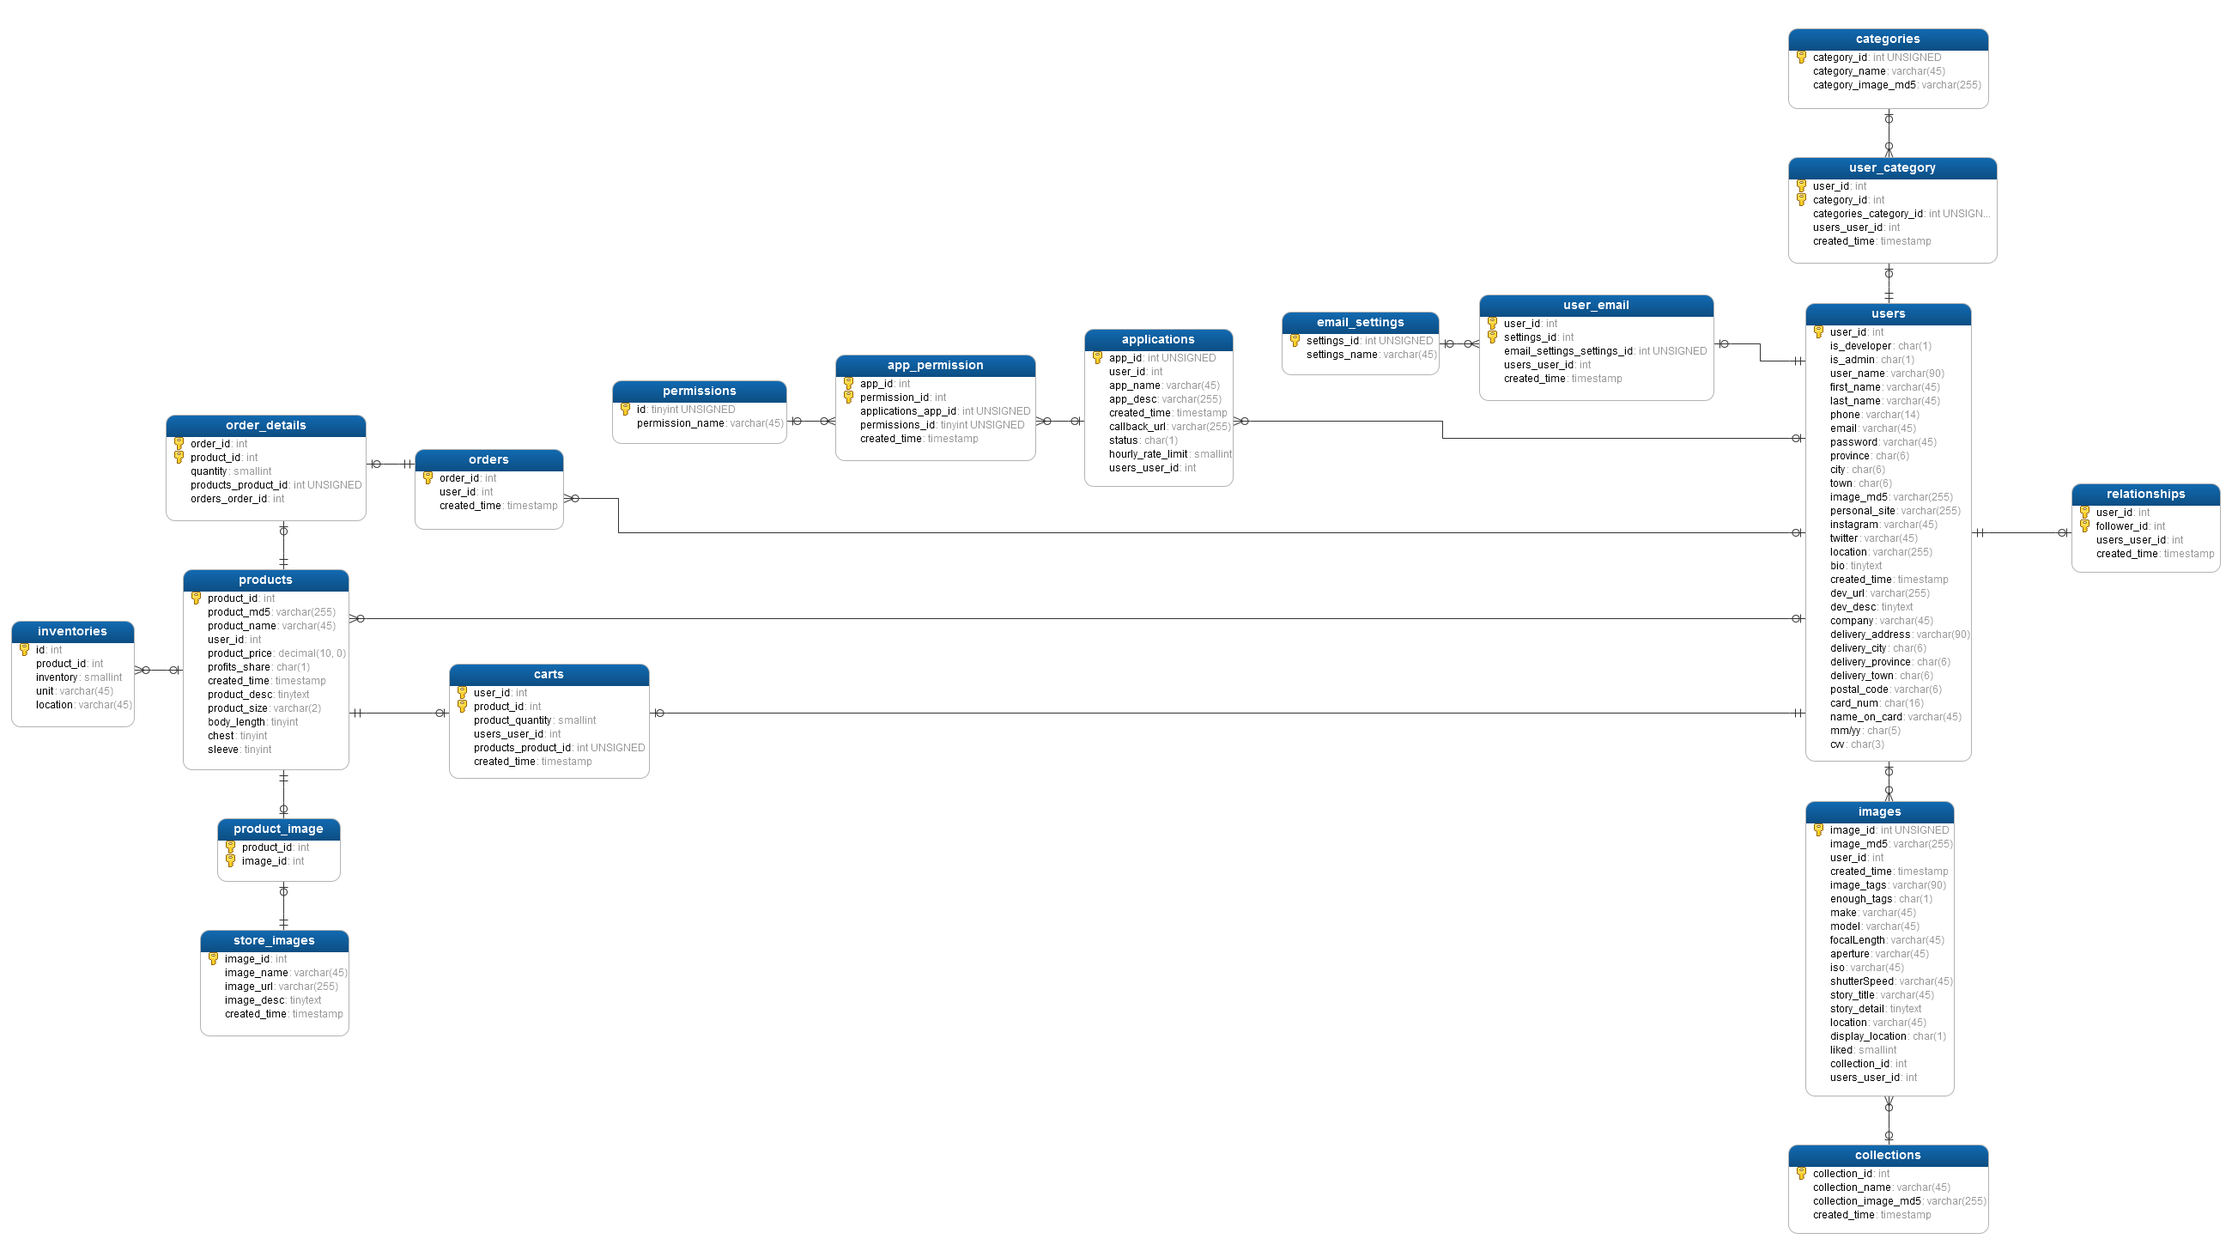
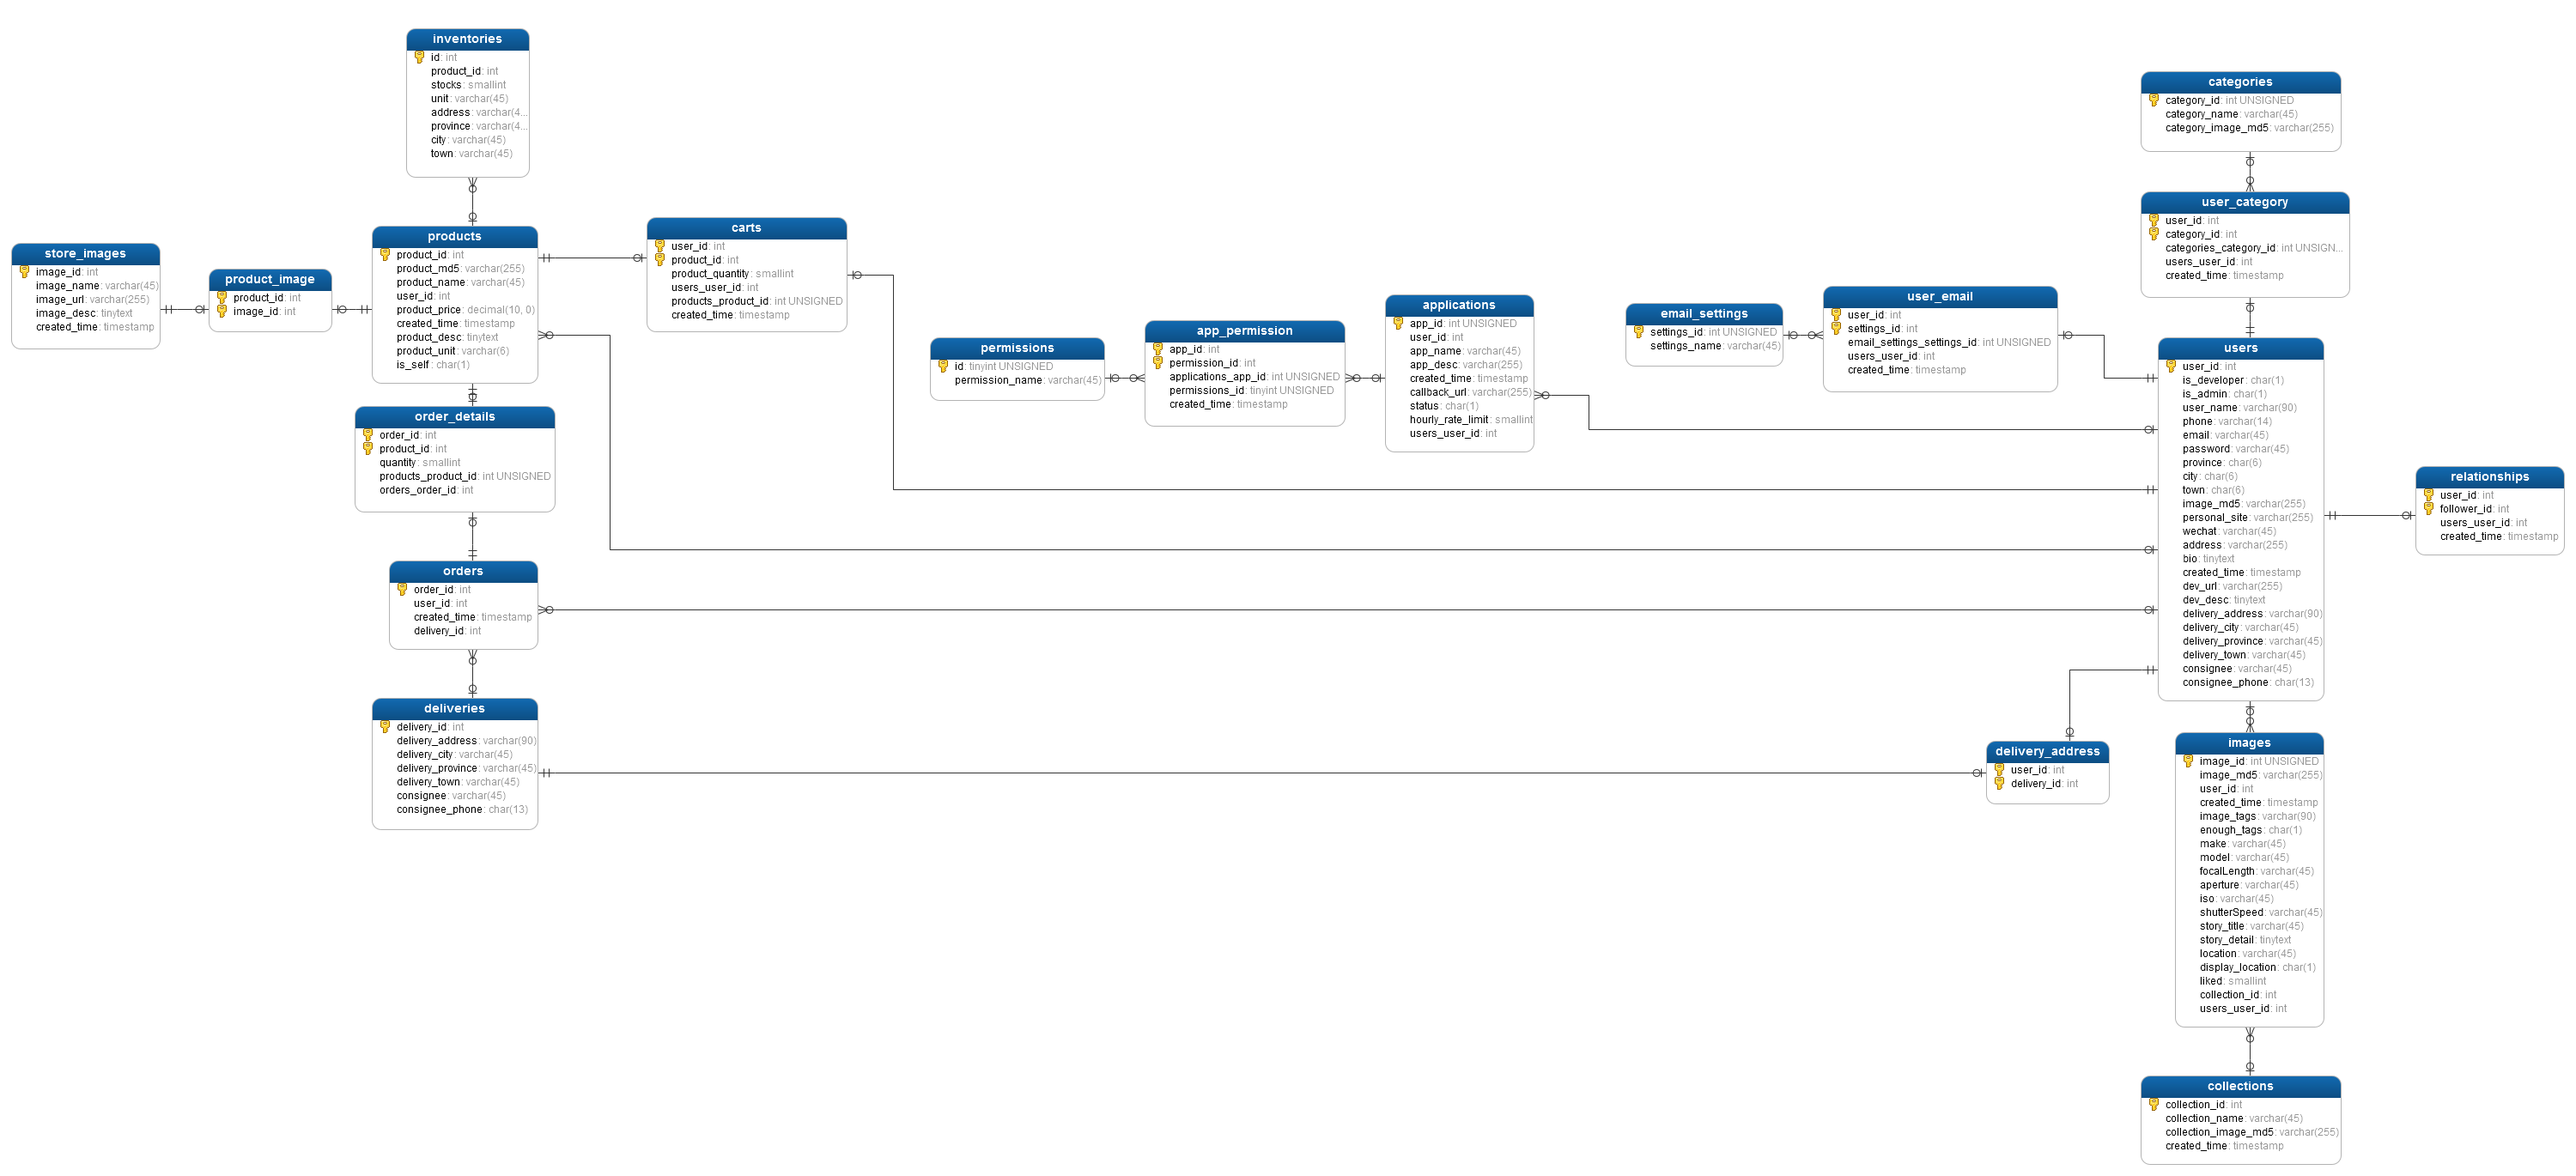
almost finish all apis except place orders

diff --git a/server/routes/users.js b/server/routes/users.js
@@ -159,10 +159,6 @@ router.post('/updateUserAccount/password', verify_token, (req, res, next) => {
 			throw error;
 		});
 });
-// 修改用户收货地址
-router.post('/updateUserAccount/delivery', verify_token, (req, res, next) => {
-
-});
 // 删除账户, 用户存储在其他表格的信息，如添加的应用、邮件设置、关注的category和摄像师等资料，也需要删除。外键的删除规则
 // 设置为层叠(cascade)
 router.post('/updateUserAccount/delete', verify_token, (req, res, next) => {
@@ -742,42 +738,120 @@ router.post('/changeStocks', verify_token, (req, res, next) => {
 });
 // 获取store中的最新产品列表
 router.post('/getProducts/new', (req, res, next) => {
-
+	let _user = req.body;
+	let pageNo = _user.pageNo || 1;
+	let pageSize = _user.pageSize || 50;
+	let _left = (pageNo - 1) * pageSize;
+	let q1 = query('SELECT COUNT(*) AS totalCounts FROM products', '');
+	let q2 = query('SELECT * FROM products ORDER BY created_time DESC LIMIT ?,?', [_left, pageSize]);
+	Promise.all([q1, q2]).then(values => {
+		let new_data = {
+			pageNo: pageNo,
+			pageSize: pageSize,
+			totalPage: Math.ceil(values[0].results[0].totalCounts / pageSize),
+			lists: values[1].results
+		};
+		res.json(formater({code:'0', data:new_data}));				
+	})
 });
 // 获取store中的最热产品列表
 router.post('/getProducts/hot', (req, res, next) => {
-
+	let _user = req.body;
+	let pageNo = _user.pageNo || 1;
+	let pageSize = _user.pageSize || 50;
+	let _left = (pageNo - 1) * pageSize;
+	let q1 = query('SELECT COUNT(*) AS totalCounts FROM products', '');
+	let q2 = query('SELECT p.*, sales.total_sales FROM products p, (SELECT product_id, SUM(quantity) AS total_sales ' + 
+		'FROM order_details GROUP BY product_id ORDER BY total_sales DESC) sales ' + 
+		'WHERE p.product_id = sales.product_id LIMIT ?,?', [_left, pageSize]);
+	Promise.all([q1, q2]).then(values => {
+		let new_data = {
+			pageNo: pageNo,
+			pageSize: pageSize,
+			totalPage: Math.ceil(values[0].results[0].totalCounts / pageSize),
+			lists: values[1].results
+		};
+		res.json(formater({code:'0', data:new_data}));	
+	})
 });
 // 获取store中所有产品列表
 router.post('/getProducts/all', (req, res, next) => {
-
+	let _user = req.body;
+	let pageNo = _user.pageNo || 1;
+	let pageSize = _user.pageSize || 50;
+	let _left = (pageNo - 1) * pageSize;
+	let q1 = query('SELECT COUNT(*) AS totalCounts FROM products', '');
+	let q2 = query('SELECT * FROM products LIMIT ?,?', [_left, pageSize]);
+	Promise.all([q1, q2]).then(values => {
+		let new_data = {
+			pageNo: pageNo,
+			pageSize: pageSize,
+			totalPage: Math.ceil(values[0].results[0].totalCounts / pageSize),
+			lists: values[1].results
+		};
+		res.json(formater({code:'0', data:new_data}));
+	})
 });
 // 获取store中自营的产品列表
 router.post('/getProducts/self', (req, res, next) => {
-
+	let _user = req.body;
+	let pageNo = _user.pageNo || 1;
+	let pageSize = _user.pageSize || 50;
+	let _left = (pageNo - 1) * pageSize;
+	let q1 = query('SELECT COUNT(*) AS totalCounts FROM products WHERE is_self = 0', '');
+	let q2 = query('SELECT * FROM products WHERE is_self = 0 LIMIT ?,?', [_left, pageSize])
+	Promise.all([q1, q2]).then(values => {
+		let new_data = {
+			pageNo: pageNo,
+			pageSize: pageSize,
+			totalPage: Math.ceil(values[0].results[0].totalCounts / pageSize),
+			lists: values[1].results
+		};
+		res.json(formater({code:'0', data:new_data}));
+	})
 });
-// 登录用户将商品加入购物车
+// 登录用户将商品加入购物车(限制为100条商品记录)
 router.post('/addToCart', verify_token, (req, res, next) => {
 	let _user = req.body;
+	let user_id = req.api_user.data.user_id;
 	let product_id = _user.product_id;
 	let product_quantity = parseInt(_user.quantity);
-	if(!product_id) {
-		return res.json(formater({code:'0', desc:'请提供产品id!'}));
+	if(!product_id || !product_quantity) {
+		return res.json(formater({code:'0', desc:'请提供产品id和产品数量!'}));
 	} else {
-		query('SELECT SUM(stocks) AS stocks FROM inventories WHERE product_id = ?', [product_id])
+		query('SELECT SUM(stocks) AS total_stocks FROM inventories WHERE product_id = ?', [product_id])
 			.then(data => {
 				if(data.err) {
 					console.log(data.err);
 					return res.json(formater({success:'false', code:'-1', desc:'sql operation error.'}));
 				} else {
-					if(stocks >= product_quantity) {
-						query('INSERT INTO carts SET product_id = ?, product_quantity = ?', [product_id, product_quantity])
+					if(data.results[0].total_stocks >= product_quantity) {
+						// 产品是否已经在购物车中
+						query('SELECT product_id, product_quantity FROM carts WHERE user_id = ? AND product_id = ?', [user_id, product_id])
 							.then(data => {
 								if(data.err) {
 									console.log(data.err);
 									return res.json(formater({success:'false', code:'-1', desc:'sql operation error.'}));
 								} else {
-									res.json(formater({code:'0', desc:'成功将商品加入购物车!'}));
+									if(data.results.length === 0) {
+										// 购物车中不存在该产品则新增
+										query('INSERT INTO carts SET user_id = ?, product_id = ?, product_quantity = ?', [user_id, product_id, product_quantity])
+											.then(data => {
+												if(data.err) {
+													console.log(data.err);
+													return res.json(formater({success:'false', code:'-1', desc:'sql operation error.'}));
+												} else {
+													res.json(formater({code:'0', desc:'成功将商品加入购物车!'}));
+												}
+											})
+									} else {
+										// 购物车中存在该商品
+										query('UPDATE carts SET product_quantity = ? WHERE product_id = ? AND user_id = ?', 
+											[data.results[0].product_quantity + product_quantity, product_id, user_id])
+											.then(data => {
+												res.json(formater({code:'0', desc:'购物车中已有该商品，成功更新库存!'}));
+											})
+									}
 								}
 							})
 					} else {
@@ -789,11 +863,54 @@ router.post('/addToCart', verify_token, (req, res, next) => {
 });
 // 登录用户获取购物车中的所有商品列表
 router.post('/getProductsInCart', verify_token, (req, res, next) => {
-	
+	//获取每件商品的数量，跟库存对比，如果大于库存，则返回实际库存
+	let _user = req.body;
+	let user_id = req.api_user.data.user_id;
+	let pageNo = _user.pageNo || 1;
+	let pageSize = _user.pageSize || 50;
+	let _left = (pageNo - 1) * pageSize;
+	query('SELECT c.user_id, c.product_id, c.product_quantity, s.stock FROM carts c, ' + 
+		'(SELECT product_id, SUM(stocks) AS stock FROM inventories GROUP BY product_id) s ' + 
+		' WHERE c.product_id = s.product_id AND c.user_id = ? LIMIT ?,?', [user_id, _left, pageSize])
+		.then(data =>{
+			if(data.err) {
+					console.log(data.err);
+					return res.json(formater({success:'false', code:'-1', desc:'sql operation error.'}));
+				} else {
+					res.json(formater({code:'0', data:data.results}));
+				}
+		})
 });
 //用户移除或修改购物车产品的数量
 router.post('/removeFromCart', verify_token, (req, res, next) => {
-
+	let _user = req.body;
+	let user_id = req.api_user.data.user_id;
+	let product_id = _user.product_id;
+	if(!product_id) {
+		return res.json(formater({code:'0', desc:'请提供产品id!'}));
+	} else {
+		query('SELECT product_id, product_quantity FROM carts WHERE user_id = ? AND product_id = ?', [user_id, product_id])
+			.then(data => {
+				if(data.err) {
+					console.log(data.err);
+					return res.json(formater({success:'false', code:'-1', desc:'sql operation error.'}));
+				} else {
+					if(data.results.length === 0) {
+						return res.json(formater({code:'0', desc:'该用户的购物车中不存在该商品！'}));
+					} else {
+						query('DELETE FROM carts WHERE user_id = ? AND product_id = ?', [user_id, product_id])
+							.then(data => {
+								if(data.err) {
+									console.log(data.err);
+									return res.json(formater({success:'false', code:'-1', desc:'sql operation error.'}));
+								} else {
+									res.json(formater({code:'0', desc:'成功从购物车删除该商品!'}));
+								}
+							})
+					}
+				}
+			})
+	}
 });
 // 获取单件商品的基本信息
 router.post('/getProductDetails', (req, res, next) => {
@@ -945,8 +1062,89 @@ router.post('/addProductImages', verify_token, (req, res, next) => {
 		}
 	}
 });
+// 修改用户收货地址
+router.post('/updateUserAccount/delivery', verify_token, (req, res, next) => {
+	let _user = req.body;
+	let user_id = req.api_user.data.user_id;
+	let delivery_id = _user.delivery_id;
+	let post = {
+		delivery_address:_user.delivery_address,
+		delivery_province:_user.delivery_province,
+		delivery_city:_user.delivery_city,
+		delivery_town:_user.delivery_town,
+		consignee:_user.consignee,
+		consignee_phone:_user.consignee_phone
+	};
+	if(delivery_id) {
+		query('SELECT delivery_id FROM deliveries WHERE delivery_id = ?', [delivery_id])
+			.then(data => {
+				if(data.err) {
+					console.log(data.err);
+					return res.json(formater({success:'false', code:'-1', desc:'sql operation error.'}));
+				} else {
+					if(data.results.length === 0) {
+						return res.json(formater({code:'0',desc:'该id对应的收货地址不存在，请确定是要修改已有收货地址还是新增收货地址，新增的话不需要提供id字段！'}));
+					} else {
+						query('UPDATE deliveries SET delivery_address = ?, delivery_province = ?, delivery_city = ?, ' + 
+							'delivery_town = ?, consignee = ?, consignee_phone = ? WHERE delivery_id = ?', [post.delivery_address, post.delivery_province, 
+							post.delivery_city, post.delivery_town, post.consignee, post.consignee_phone, delivery_id])
+							.then(data => {
+								if(data.err) {
+									console.log(data.err);
+									return res.json(formater({success:'false', code:'-1', desc:'sql operation error.'}));
+								} else {
+									res.json(formater({code:'0', desc:'收货地址修改成功！'}));
+								}
+						})
+					}
+				}
+		})
+	} else {
+		query('INSERT INTO deliveries SET ?', [post])
+			.then(data => {
+				if(data.err) {
+					console.log(data.err);
+					return res.json(formater({success:'false', code:'-1', desc:'sql operation error.'}));
+				} else {
+					return data.results.insertId;
+				}
+			})
+			.then(insertId => {
+				query('INSERT INTO delivery_address SET ?',[{user_id: user_id, delivery_id: insertId}])
+					.then(data => {
+						if(data.err) {
+							console.log(data.err);
+							return res.json(formater({success:'false', code:'-1', desc:'sql operation error.'}));
+						} else {
+							res.json(formater({code:'0', desc:'收货地址新增成功！'}));
+						}
+					})
+			})
+	}
+});
+// 获取用户收货地址
+router.post('/getDeliveryAddress', verify_token, (req, res, next) => {
+	let _user = req.body;
+	let user_id = req.api_user.data.user_id;
+	let pageNo = _user.pageNo || 1;
+	let pageSize = _user.pageSize || 50;
+	let _left = (pageNo - 1) * pageSize;
+	query('SELECT d.* FROM deliveries d, (SELECT delivery_id FROM delivery_address WHERE user_id = ?) a ' + 
+		'WHERE d.delivery_id = a.delivery_id LIMIT ?,?', [user_id, _left, pageSize])
+		.then(data => {
+			if(data.err) {
+				console.log(data.err);
+				return res.json(formater({success:'false', code:'-1', desc:'sql operation error.'}));
+			} else {
+				res.json(formater({code:'0', data:data.results}));
+			}
+		})
+});
+
 // 用户提交订单
 router.post('/placeOrder', verify_token, (req, res, next) => {
+	let _user = req.body;
+	let user_id = req.api_user.data.user_id;
 
 });
 
